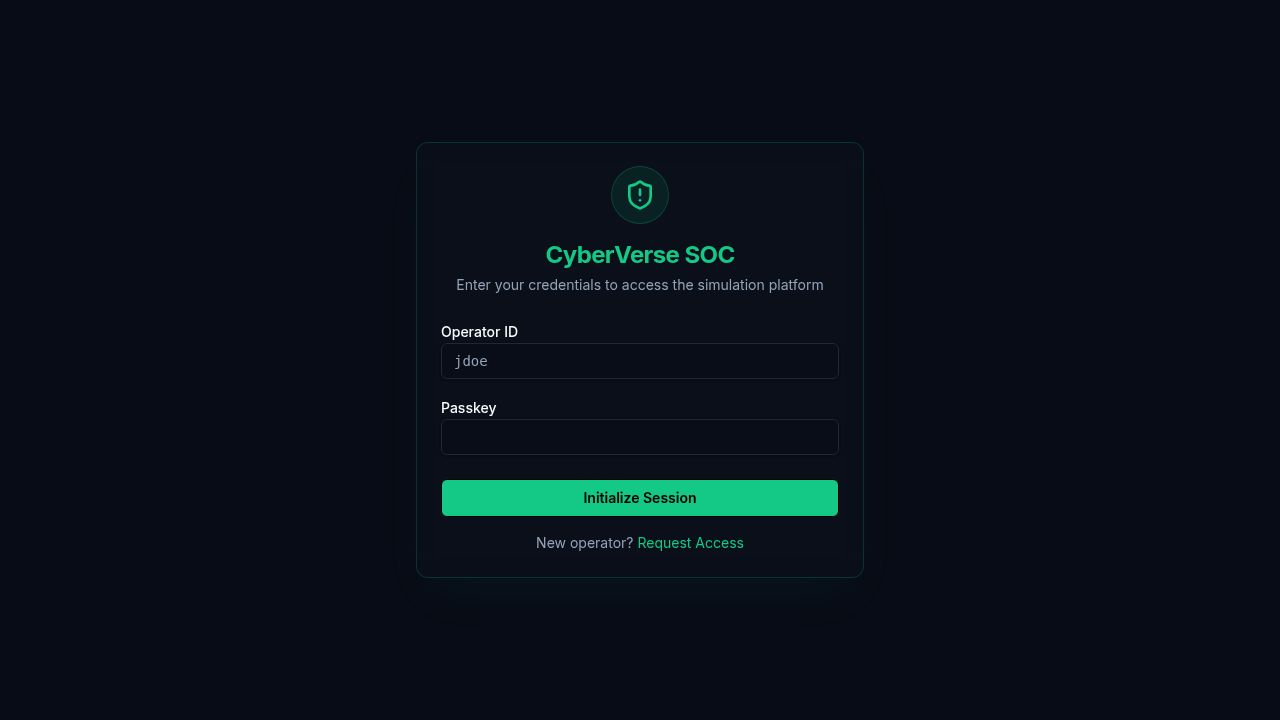
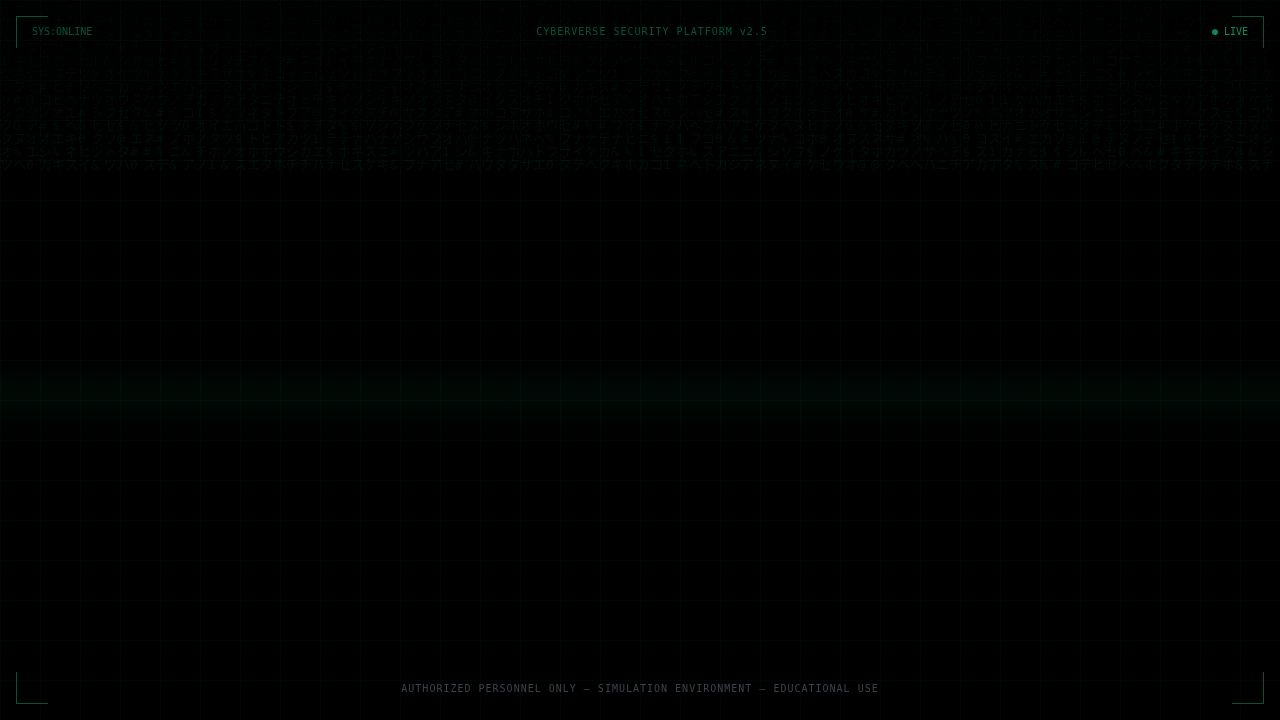
Update UI to a Cyber OS Interface with dark mode and neon effects
Apply dark cyberpunk styling to the application, introducing neon glow effects, a terminal-style interface, and animated elements while preserving existing functionality.

Replit-Commit-Author: Agent
Replit-Commit-Session-Id: a1fc8f33-5d57-4633-9b17-d57ea953a701
Replit-Commit-Checkpoint-Type: full_checkpoint
Replit-Commit-Event-Id: 04656705-2572-406d-af42-dd0cb2af80e9
Replit-Commit-Screenshot-Url: https://storage.googleapis.com/screenshot-production-us-central1/eafc3ccf-7add-4311-a65f-0eb8dc4b8fe1/a1fc8f33-5d57-4633-9b17-d57ea953a701/vG3sLGg
Replit-Helium-Checkpoint-Created: true

diff --git a/artifacts/cyberverse/src/index.css b/artifacts/cyberverse/src/index.css
@@ -150,10 +150,77 @@
 
   body {
     @apply font-sans antialiased bg-background text-foreground;
+    background:
+      radial-gradient(circle at top, rgba(0, 255, 136, 0.08), transparent 24%),
+      radial-gradient(circle at right, rgba(59, 130, 246, 0.08), transparent 22%),
+      linear-gradient(180deg, rgba(10, 10, 15, 0.96), rgba(10, 10, 15, 1));
   }
 }
 
 @layer utilities {
+  .cyber-panel {
+    @apply bg-card/80 border border-border rounded-xl backdrop-blur-sm;
+    box-shadow: 0 0 0 1px rgba(0, 255, 136, 0.05), 0 0 24px rgba(0, 255, 136, 0.08);
+  }
+
+  .cyber-panel-glow {
+    box-shadow: 0 0 0 1px rgba(0, 255, 136, 0.12), 0 0 32px rgba(0, 255, 136, 0.12);
+  }
+
+  .neon-button {
+    @apply transition-all duration-300;
+  }
+
+  .neon-button:hover {
+    box-shadow: 0 0 16px rgba(0, 255, 136, 0.2);
+    transform: translateY(-1px);
+  }
+
+  .terminal-screen {
+    background:
+      linear-gradient(rgba(0, 255, 136, 0.04), rgba(0, 255, 136, 0.02)),
+      rgba(2, 6, 23, 0.92);
+  }
+
+  .glitch-text {
+    position: relative;
+    text-shadow: 0 0 8px rgba(0, 255, 136, 0.35);
+  }
+
+  .glitch-text::before,
+  .glitch-text::after {
+    content: attr(data-text);
+    position: absolute;
+    inset: 0;
+    opacity: 0.7;
+  }
+
+  .glitch-text::before {
+    transform: translate(1px, 0);
+    color: #38bdf8;
+  }
+
+  .glitch-text::after {
+    transform: translate(-1px, 0);
+    color: #a855f7;
+  }
+
+  .typing-effect {
+    overflow: hidden;
+    white-space: nowrap;
+    border-right: 2px solid hsl(var(--primary));
+    animation: typing 3.2s steps(40, end), blink 0.8s step-end infinite;
+  }
+
+  @keyframes typing {
+    from { width: 0; }
+    to { width: 100%; }
+  }
+
+  @keyframes blink {
+    50% { border-color: transparent; }
+  }
+
   input[type="search"]::-webkit-search-cancel-button {
     @apply hidden;
   }

diff --git a/artifacts/cyberverse/src/components/BadgeDisplay.tsx b/artifacts/cyberverse/src/components/BadgeDisplay.tsx
@@ -1,12 +1,14 @@
 import { motion } from "framer-motion";
 import { Tooltip, TooltipContent, TooltipTrigger } from "@/components/ui/tooltip";
 
-export const BADGE_DEFS: Record<string, { label: string; icon: string; desc: string; color: string }> = {
-  top_hacker:      { label: "Top Hacker",      icon: "👑", desc: "Highest daily score",                color: "border-yellow-400/40 bg-yellow-400/10 text-yellow-400" },
-  phishing_master: { label: "Phishing Master",  icon: "🎣", desc: "10+ correct phishing answers",       color: "border-blue-400/40 bg-blue-400/10 text-blue-400" },
-  speed_runner:    { label: "Speed Runner",     icon: "⚡", desc: "Lightning-fast average response",    color: "border-primary/40 bg-primary/10 text-primary" },
-  defender_pro:    { label: "Defender Pro",     icon: "🛡️", desc: "Defense score over 300",            color: "border-green-400/40 bg-green-400/10 text-green-400" },
-};
+const GLOW_CLASS = "shadow-[0_0_14px_rgba(34,197,94,0.18)]";
+
+const BADGE_DEFS = {
+  top_hacker: { label: "Top Hacker", icon: "👑", desc: "Highest daily score", color: "border-yellow-400/40 bg-yellow-400/10 text-yellow-400" },
+  phishing_master: { label: "Phishing Master", icon: "🎣", desc: "10+ correct phishing answers", color: "border-blue-400/40 bg-blue-400/10 text-blue-400" },
+  speed_runner: { label: "Speed Runner", icon: "⚡", desc: "Lightning-fast average response", color: "border-primary/40 bg-primary/10 text-primary" },
+  defender_pro: { label: "Defender Pro", icon: "🛡️", desc: "Defense score over 300", color: "border-green-400/40 bg-green-400/10 text-green-400" },
+} as const;
 
 export function getStreakTitle(streakDays: number): string | null {
   if (streakDays >= 10) return "Unstoppable 🔥🔥";
@@ -43,7 +45,7 @@ export function BadgeDisplay({ badges, size = "sm", showLabels = false, animate 
             initial={animate ? { opacity: 0, scale: 0.8 } : undefined}
             animate={animate ? { opacity: 1, scale: 1 } : undefined}
             transition={animate ? { delay: i * 0.1 } : undefined}
-            className={`inline-flex items-center gap-1 rounded-full border font-mono font-bold ${sizeClasses[size]} ${def.color}`}
+            className={`inline-flex items-center gap-1 rounded-full border font-mono font-bold ${GLOW_CLASS} ${sizeClasses[size]} ${def.color}`}
           >
             <span>{def.icon}</span>
             {showLabels && <span>{def.label}</span>}
@@ -83,7 +85,7 @@ export function StreakTitle({ streakDays, className = "", animate = true }: Stre
     <motion.span
       initial={animate ? { opacity: 0, x: -10 } : undefined}
       animate={animate ? { opacity: 1, x: 0 } : undefined}
-      className={`inline-flex items-center font-mono font-bold text-xs px-2 py-0.5 rounded-full border ${
+      className={`inline-flex items-center font-mono font-bold text-xs px-2 py-0.5 rounded-full border ${animate ? "transition-all duration-300" : ""} ${
         isUnstoppable
           ? "text-red-400 border-red-400/40 bg-red-400/10 shadow-[0_0_8px_rgba(248,113,113,0.4)]"
           : isOnFire